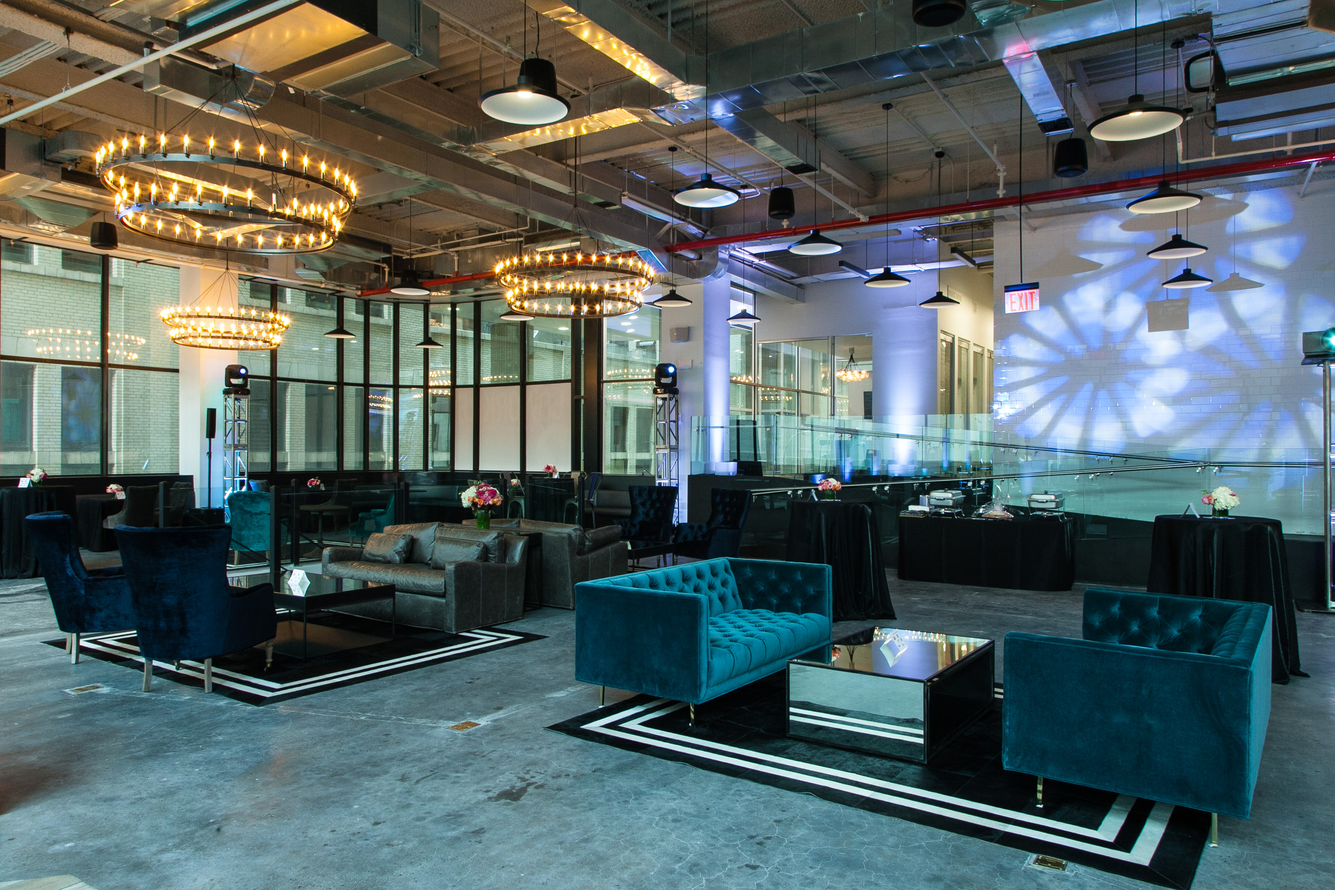
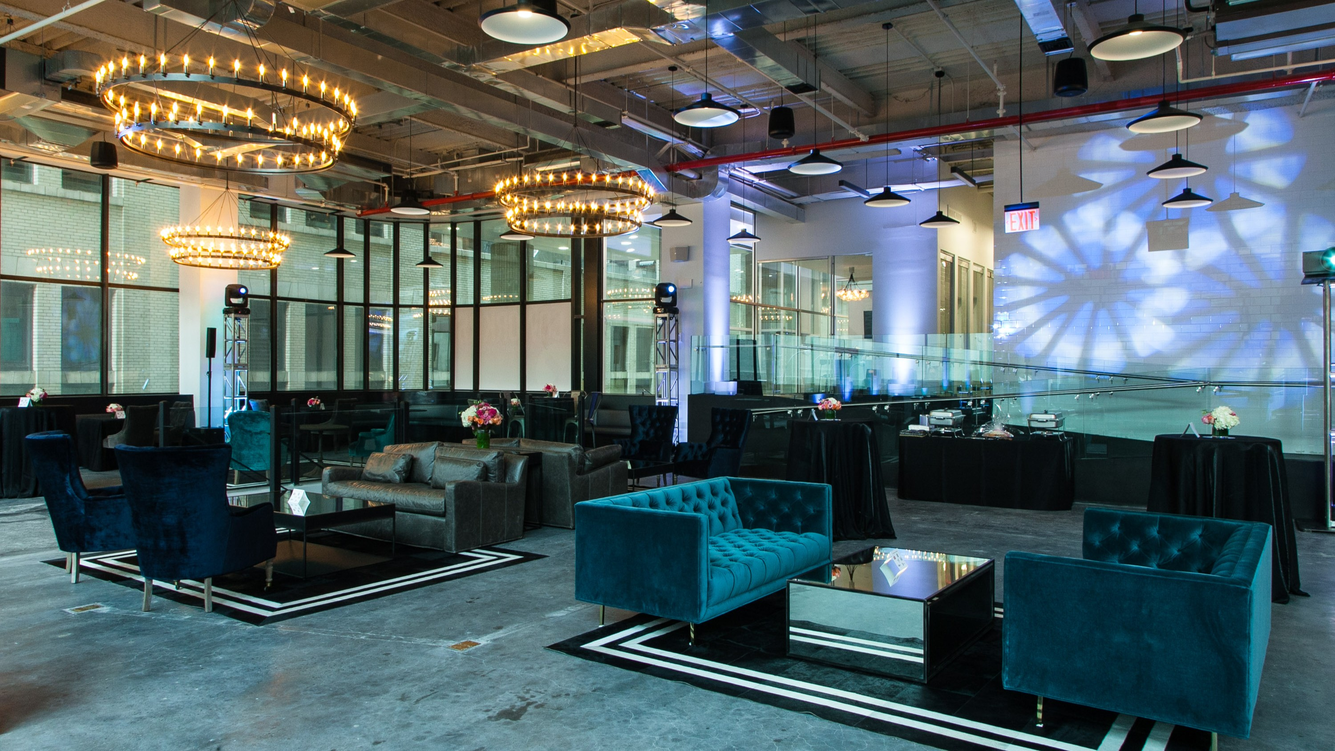
fixed gallery photos

diff --git a/components/GallerySection.tsx b/components/GallerySection.tsx
@@ -1,6 +1,6 @@
 "use client";
 
-import { useState } from "react";
+import { useState, useEffect } from "react";
 import Image from "next/image";
 import { motion, AnimatePresence } from "framer-motion";
 import { useInView } from "react-intersection-observer";
@@ -9,27 +9,16 @@ import siteConfig from "@/config/siteConfig";
 
 export default function GallerySection() {
   const [selectedImage, setSelectedImage] = useState<number | null>(null);
-  const [ref, inView] = useInView({
-    triggerOnce: true,
-    threshold: 0.05,
-  });
+  const [ref, inView] = useInView({ triggerOnce: true, threshold: 0.05 });
 
   const containerVariants = {
     hidden: {},
-    visible: {
-      transition: {
-        staggerChildren: 0.05,
-      },
-    },
+    visible: { transition: { staggerChildren: 0.04 } },
   };
 
   const itemVariants = {
-    hidden: { opacity: 0, scale: 0.9 },
-    visible: {
-      opacity: 1,
-      scale: 1,
-      transition: { duration: 0.4 },
-    },
+    hidden: { opacity: 0, y: 20 },
+    visible: { opacity: 1, y: 0, transition: { duration: 0.4 } },
   };
 
   const openLightbox = (index: number) => {
@@ -43,24 +32,33 @@ export default function GallerySection() {
   };
 
   const nextImage = () => {
-    if (selectedImage !== null) {
+    if (selectedImage !== null)
       setSelectedImage((selectedImage + 1) % siteConfig.gallery.length);
-    }
   };
 
   const prevImage = () => {
-    if (selectedImage !== null) {
+    if (selectedImage !== null)
       setSelectedImage(
         (selectedImage - 1 + siteConfig.gallery.length) %
-          siteConfig.gallery.length,
+          siteConfig.gallery.length
       );
-    }
   };
+
+  useEffect(() => {
+    if (selectedImage === null) return;
+    const handleKey = (e: KeyboardEvent) => {
+      if (e.key === "ArrowRight") nextImage();
+      if (e.key === "ArrowLeft") prevImage();
+      if (e.key === "Escape") closeLightbox();
+    };
+    window.addEventListener("keydown", handleKey);
+    return () => window.removeEventListener("keydown", handleKey);
+  }, [selectedImage]);
 
   return (
     <AnimatedSection id="gallery" className="py-16 md:py-20 bg-white">
       {/* Header */}
-      <div className="max-w-4xl mx-auto text-center mb-16 px-4">
+      <div className="max-w-4xl mx-auto text-center mb-12 px-4">
         <h2 className="section-title">
           <span className="relative inline-block">
             <span className="relative z-10">Photo</span>
@@ -70,32 +68,31 @@ export default function GallerySection() {
         </h2>
       </div>
 
-      {/* Pinterest Masonry Grid */}
+      {/* Masonry Grid */}
       <motion.div
         ref={ref}
         variants={containerVariants}
         initial="hidden"
         animate={inView ? "visible" : "hidden"}
-        className="columns-2 sm:columns-3 md:columns-4 lg:columns-5 gap-2 px-2"
+        className="columns-2 sm:columns-3 lg:columns-4 gap-1.5 sm:gap-2 px-1.5 sm:px-2"
       >
         {siteConfig.gallery.map((image, index) => (
           <motion.div
             key={image.id}
             variants={itemVariants}
-            className="relative group cursor-pointer overflow-hidden mb-2 break-inside-avoid"
+            className="relative group cursor-pointer overflow-hidden mb-1.5 sm:mb-2 break-inside-avoid"
             onClick={() => openLightbox(index)}
           >
-            <Image
+            {/* eslint-disable-next-line @next/next/no-img-element */}
+            <img
               src={image.src}
               alt={image.alt}
-              width={800}
-              height={parseInt(image.src.match(/800x(\d+)/)?.[1] || "600")}
-              sizes="(max-width: 640px) 50vw, (max-width: 768px) 33vw, (max-width: 1024px) 25vw, 20vw"
-              className="w-full h-auto object-cover transition-transform duration-500 group-hover:scale-110"
+              loading="lazy"
+              className="w-full h-auto block transition-transform duration-500 group-hover:scale-105"
             />
-            <div className="absolute inset-0 bg-black/0 group-hover:bg-black/40 transition-all duration-300 flex items-center justify-center">
+            <div className="absolute inset-0 bg-black/0 group-hover:bg-black/30 transition-all duration-300 flex items-center justify-center">
               <svg
-                className="w-12 h-12 text-white opacity-0 group-hover:opacity-100 transition-opacity duration-300"
+                className="w-10 h-10 text-white opacity-0 group-hover:opacity-100 transition-opacity duration-300 drop-shadow-lg"
                 fill="none"
                 stroke="currentColor"
                 viewBox="0 0 24 24"
@@ -122,78 +119,42 @@ export default function GallerySection() {
             className="fixed inset-0 z-50 bg-black/95 flex items-center justify-center"
             onClick={closeLightbox}
           >
-            {/* Close Button */}
+            {/* Close */}
             <button
-              className="absolute top-4 right-4 w-12 h-12 flex items-center justify-center text-white hover:bg-white/10 transition-colors z-10"
+              className="absolute top-4 right-4 w-12 h-12 flex items-center justify-center text-white/70 hover:text-white hover:bg-white/10 rounded-full transition-colors z-10"
               onClick={closeLightbox}
             >
-              <svg
-                className="w-8 h-8"
-                fill="none"
-                stroke="currentColor"
-                viewBox="0 0 24 24"
-              >
-                <path
-                  strokeLinecap="round"
-                  strokeLinejoin="round"
-                  strokeWidth={2}
-                  d="M6 18L18 6M6 6l12 12"
-                />
+              <svg className="w-7 h-7" fill="none" stroke="currentColor" viewBox="0 0 24 24">
+                <path strokeLinecap="round" strokeLinejoin="round" strokeWidth={2} d="M6 18L18 6M6 6l12 12" />
               </svg>
             </button>
 
-            {/* Previous Button */}
+            {/* Prev */}
             <button
-              className="absolute left-4 top-1/2 -translate-y-1/2 w-12 h-12 flex items-center justify-center text-white hover:bg-white/10 transition-colors z-10"
-              onClick={(e) => {
-                e.stopPropagation();
-                prevImage();
-              }}
+              className="absolute left-2 md:left-4 top-1/2 -translate-y-1/2 w-12 h-12 flex items-center justify-center text-white/70 hover:text-white hover:bg-white/10 rounded-full transition-colors z-10"
+              onClick={(e) => { e.stopPropagation(); prevImage(); }}
             >
-              <svg
-                className="w-8 h-8"
-                fill="none"
-                stroke="currentColor"
-                viewBox="0 0 24 24"
-              >
-                <path
-                  strokeLinecap="round"
-                  strokeLinejoin="round"
-                  strokeWidth={2}
-                  d="M15 19l-7-7 7-7"
-                />
+              <svg className="w-7 h-7" fill="none" stroke="currentColor" viewBox="0 0 24 24">
+                <path strokeLinecap="round" strokeLinejoin="round" strokeWidth={2} d="M15 19l-7-7 7-7" />
               </svg>
             </button>
 
-            {/* Next Button */}
+            {/* Next */}
             <button
-              className="absolute right-4 top-1/2 -translate-y-1/2 w-12 h-12 flex items-center justify-center text-white hover:bg-white/10 transition-colors z-10"
-              onClick={(e) => {
-                e.stopPropagation();
-                nextImage();
-              }}
+              className="absolute right-2 md:right-4 top-1/2 -translate-y-1/2 w-12 h-12 flex items-center justify-center text-white/70 hover:text-white hover:bg-white/10 rounded-full transition-colors z-10"
+              onClick={(e) => { e.stopPropagation(); nextImage(); }}
             >
-              <svg
-                className="w-8 h-8"
-                fill="none"
-                stroke="currentColor"
-                viewBox="0 0 24 24"
-              >
-                <path
-                  strokeLinecap="round"
-                  strokeLinejoin="round"
-                  strokeWidth={2}
-                  d="M9 5l7 7-7 7"
-                />
+              <svg className="w-7 h-7" fill="none" stroke="currentColor" viewBox="0 0 24 24">
+                <path strokeLinecap="round" strokeLinejoin="round" strokeWidth={2} d="M9 5l7 7-7 7" />
               </svg>
             </button>
 
             {/* Image */}
             <motion.div
               key={selectedImage}
-              initial={{ opacity: 0, scale: 0.9 }}
+              initial={{ opacity: 0, scale: 0.95 }}
               animate={{ opacity: 1, scale: 1 }}
-              exit={{ opacity: 0, scale: 0.9 }}
+              exit={{ opacity: 0, scale: 0.95 }}
               className="relative w-full h-full max-w-6xl max-h-[90vh] mx-4"
               onClick={(e) => e.stopPropagation()}
             >
@@ -207,7 +168,7 @@ export default function GallerySection() {
             </motion.div>
 
             {/* Counter */}
-            <div className="absolute bottom-4 left-1/2 -translate-x-1/2 text-white text-lg">
+            <div className="absolute bottom-4 left-1/2 -translate-x-1/2 text-white/60 text-sm font-medium tracking-wider">
               {selectedImage + 1} / {siteConfig.gallery.length}
             </div>
           </motion.div>

diff --git a/config/siteConfig.ts b/config/siteConfig.ts
@@ -216,15 +216,47 @@ const siteConfig: SiteConfig = {
     },
   ],
 
-  gallery: Array.from({ length: 27 }, (_, i) => {
-    const heights = [600, 800, 500, 900, 700, 650, 750, 550, 850];
-    const h = heights[i % heights.length];
-    return {
-      id: i,
-      src: `https://placehold.co/800x${h}/1a1a1a/d2b371`,
-      alt: `The Mezzanine Gallery Image ${i + 1}`,
-    };
-  }),
+  gallery: [
+    { id: 1, src: "/gallery/1.jpeg", alt: "The Mezzanine Gallery Image 1" },
+    { id: 2, src: "/gallery/2.jpg", alt: "The Mezzanine Gallery Image 2" },
+    { id: 3, src: "/gallery/3.jpeg", alt: "The Mezzanine Gallery Image 3" },
+    { id: 4, src: "/gallery/4.jpg", alt: "The Mezzanine Gallery Image 4" },
+    { id: 5, src: "/gallery/5.jpg", alt: "The Mezzanine Gallery Image 5" },
+    { id: 6, src: "/gallery/6.jpeg", alt: "The Mezzanine Gallery Image 6" },
+    { id: 7, src: "/gallery/7.png", alt: "The Mezzanine Gallery Image 7" },
+    { id: 8, src: "/gallery/8.jpg", alt: "The Mezzanine Gallery Image 8" },
+    { id: 9, src: "/gallery/9.jpeg", alt: "The Mezzanine Gallery Image 9" },
+    { id: 10, src: "/gallery/10.jpg", alt: "The Mezzanine Gallery Image 10" },
+    { id: 11, src: "/gallery/11.jpeg", alt: "The Mezzanine Gallery Image 11" },
+    { id: 12, src: "/gallery/12.jpg", alt: "The Mezzanine Gallery Image 12" },
+    { id: 13, src: "/gallery/13.jpg", alt: "The Mezzanine Gallery Image 13" },
+    { id: 14, src: "/gallery/14.jpg", alt: "The Mezzanine Gallery Image 14" },
+    { id: 15, src: "/gallery/15.jpg", alt: "The Mezzanine Gallery Image 15" },
+    { id: 16, src: "/gallery/16.jpeg", alt: "The Mezzanine Gallery Image 16" },
+    { id: 17, src: "/gallery/17.jpeg", alt: "The Mezzanine Gallery Image 17" },
+    { id: 18, src: "/gallery/18.png", alt: "The Mezzanine Gallery Image 18" },
+    { id: 19, src: "/gallery/19.jpg", alt: "The Mezzanine Gallery Image 19" },
+    { id: 20, src: "/gallery/20.jpeg", alt: "The Mezzanine Gallery Image 20" },
+    { id: 21, src: "/gallery/21.png", alt: "The Mezzanine Gallery Image 21" },
+    { id: 22, src: "/gallery/22.jpg", alt: "The Mezzanine Gallery Image 22" },
+    { id: 23, src: "/gallery/23.jpg", alt: "The Mezzanine Gallery Image 23" },
+    { id: 24, src: "/gallery/24.png", alt: "The Mezzanine Gallery Image 24" },
+    { id: 25, src: "/gallery/25.jpg", alt: "The Mezzanine Gallery Image 25" },
+    { id: 26, src: "/gallery/26.jpg", alt: "The Mezzanine Gallery Image 26" },
+    { id: 27, src: "/gallery/27.jpg", alt: "The Mezzanine Gallery Image 27" },
+    { id: 28, src: "/gallery/28.png", alt: "The Mezzanine Gallery Image 28" },
+    { id: 29, src: "/gallery/29.jpg", alt: "The Mezzanine Gallery Image 29" },
+    { id: 30, src: "/gallery/30.jpg", alt: "The Mezzanine Gallery Image 30" },
+    { id: 31, src: "/gallery/31.jpg", alt: "The Mezzanine Gallery Image 31" },
+    { id: 32, src: "/gallery/32.png", alt: "The Mezzanine Gallery Image 32" },
+    { id: 33, src: "/gallery/33.jpeg", alt: "The Mezzanine Gallery Image 33" },
+    { id: 34, src: "/gallery/34.jpg", alt: "The Mezzanine Gallery Image 34" },
+    { id: 35, src: "/gallery/35.jpg", alt: "The Mezzanine Gallery Image 35" },
+    { id: 36, src: "/gallery/36.jpg", alt: "The Mezzanine Gallery Image 36" },
+    { id: 37, src: "/gallery/37.jpeg", alt: "The Mezzanine Gallery Image 37" },
+    { id: 38, src: "/gallery/38.jpg", alt: "The Mezzanine Gallery Image 38" },
+    { id: 39, src: "/gallery/39.png", alt: "The Mezzanine Gallery Image 39" },
+  ],
 
   navigation: [
     { label: "About", href: "#about" },
